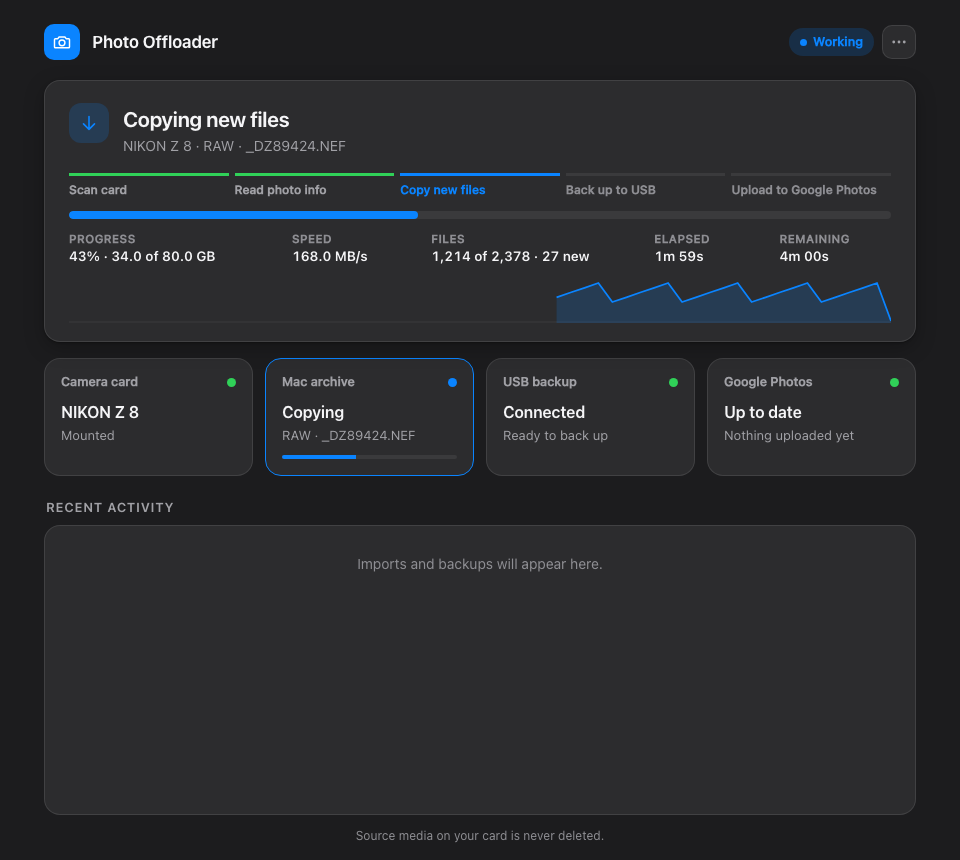
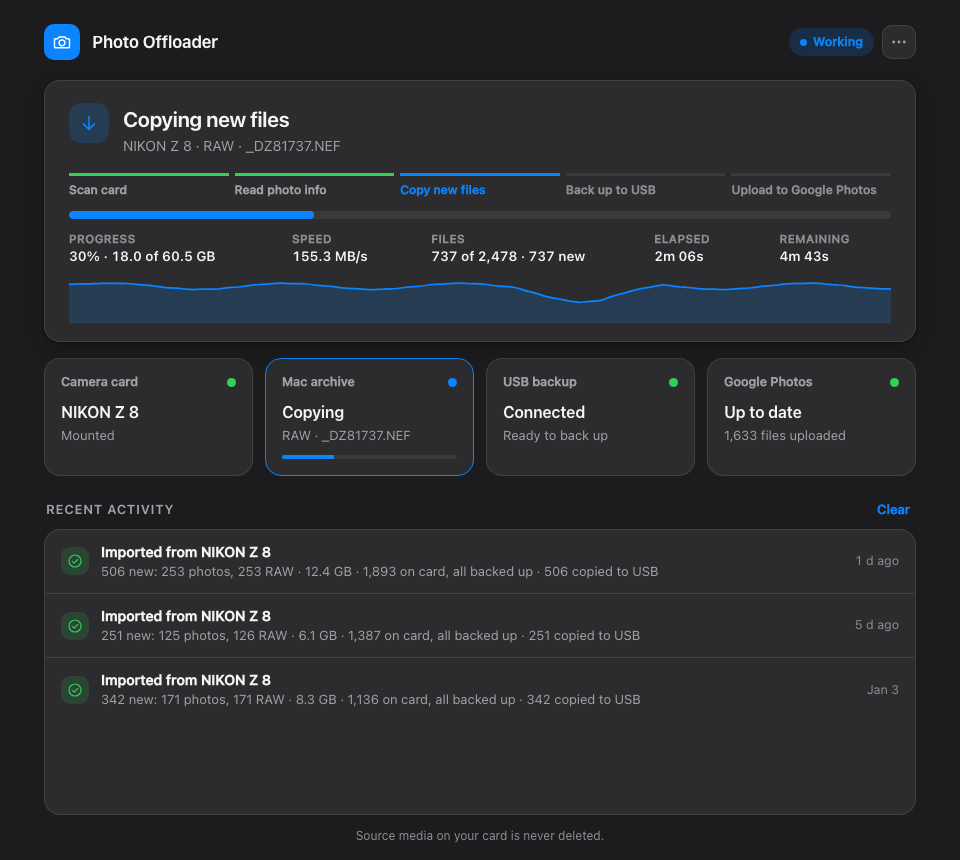
Show a believable import in the README's screenshot
The old picture didn't add up: 34 GB in 1m 59s is about 285 MB/s, but it said
153 MB/s, and it showed 1,214 files done with only 47 new. Its cards also said
"Up to date" beside "Nothing uploaded yet", above an empty activity list.

A new readme_import scenario uses a card sized like a real one (2,478 files,
about 25 MB each) and works out progress, file counts and time remaining from
the same speed samples, with a test that they agree. It also has past imports
and uploads. The picture is still simulated, not a recording of a real import.

diff --git a/tests/browser/harness.py b/tests/browser/harness.py
@@ -149,6 +149,10 @@ class Sandbox:
         self.status(usb_planned=True, **fields)
 
 
+README_CARD_FILES = 2478
+README_MB_PER_FILE = 25
+README_COPY_SECONDS = 120
+
 COPY_PROGRESS = dict(
     bytes_done=34 * GB,
     bytes_total=80 * GB,
@@ -185,6 +189,59 @@ def _copying(s: Sandbox, **fields: Any) -> None:
             }
         )
         s.core.state()
+
+
+def _past_import(s: Sandbox, days_ago: int, seconds: int, new_files: int, card_files: int) -> None:
+    new_bytes = new_files * README_MB_PER_FILE * MB
+    finished = s.now - days_ago * 86400
+    s.record(
+        files=card_files,
+        copied=new_files,
+        skipped=card_files - new_files,
+        bytes=card_files * README_MB_PER_FILE * MB,
+        started_at=finished - seconds,
+        finished_at=finished,
+        details={
+            "new": {"JPG": new_files // 2, "RAW": new_files - new_files // 2},
+            "new_bytes": new_bytes,
+            "usb_copied": new_files,
+        },
+    )
+
+
+def _readme_import(s: Sandbox) -> None:
+    """The README's picture: a fresh card two minutes in, sized like a real one (about 25 MB a
+    file). Every number comes from the speed samples, so the panel's figures agree."""
+    speeds = [_steady_speed_mb(second, 70, 82) * MB for second in range(README_COPY_SECONDS)]
+    moved = sum(speeds)
+    files = moved // (README_MB_PER_FILE * MB)
+    total = README_CARD_FILES * README_MB_PER_FILE * MB
+    _past_import(s, days_ago=12, seconds=58, new_files=342, card_files=1136)
+    _past_import(s, days_ago=5, seconds=41, new_files=251, card_files=1387)
+    _past_import(s, days_ago=1, seconds=83, new_files=506, card_files=1893)
+    with catalog.catalog_db() as db:
+        db.executemany(
+            "INSERT INTO google_photos_uploads (path, size, mtime_ns, inode, uploaded_at, remote,"
+            " album) VALUES (?, 1, 1, 1, ?, 'gphotos', 'Photo Offloader')",
+            [(f"/archive/{number}.jpg", s.now) for number in range(1633)],
+        )
+    s.transfer(
+        state="copying",
+        phase="copy",
+        stage="copy",
+        category="RAW",
+        current_file=f"_DZ8{1000 + files}.NEF",
+        files_done=files,
+        files_total=README_CARD_FILES,
+        new_files=files,
+        bytes_done=moved,
+        bytes_total=total,
+        bytes_transferred=moved,
+        elapsed_seconds=README_COPY_SECONDS + 6,  # the scan came first
+        eta_seconds=(total - moved) / (moved / README_COPY_SECONDS),
+    )
+    s.core.state()  # starts the graph; the clock is frozen, so no poll adds to it afterwards
+    s.core._samples.extend(speeds)
 
 
 def _uploading(s: Sandbox) -> None:
@@ -261,6 +318,7 @@ SCENARIOS: Dict[str, Callable[[Sandbox], None]] = {
         **COPY_PROGRESS,
     ),
     "copying": _copying,
+    "readme_import": _readme_import,
     # The longest values a slot should have to hold: a big card with thousands of new files.
     "copying_big_card": lambda s: _copying(
         s,

diff --git a/tests/browser/test_dashboard_page.py b/tests/browser/test_dashboard_page.py
@@ -7,13 +7,14 @@ PHOTO_OFFLOADER_TEST_SCREENSHOTS to a folder to also save a picture of every sta
 
 from __future__ import annotations
 
+import json
 import os
 import re
 import unittest
 from pathlib import Path
 from typing import Dict, List
 
-from tests.browser.harness import CARD, ONE_RUN, SCENARIOS, Browser, BrowserTestCase
+from tests.browser.harness import CARD, MB, ONE_RUN, SCENARIOS, Browser, BrowserTestCase
 
 try:
     from playwright.sync_api import expect
@@ -497,6 +498,35 @@ class TestCardTextIsNeverMarkup(PageTestCase):
         expect(self.page.locator("#hero p")).to_have_text(HOSTILE)
         expect(self.page.locator("#history .t")).to_contain_text(HOSTILE)
         expect(self.page.locator("#history .s")).to_contain_text(HOSTILE)
+
+
+class TestReadmeScreenshot(PageTestCase):
+    """The README's picture has to read like a real import, so its numbers must agree."""
+
+    def test_the_numbers_on_the_panel_agree_with_each_other(self):
+        self.show("readme_import")
+        status = json.loads(self.sandbox.paths.status_file.read_text())
+        done, total = status["bytes_done"], status["bytes_total"]
+        history = self.sandbox.core.state()["activity"]["speed_history"]
+        self.assertEqual(status["bytes_transferred"], done)
+        self.assertAlmostEqual(
+            sum(history) / done, 1, places=2, msg="the graph adds up to the bytes"
+        )
+        self.assertEqual(
+            status["new_files"], status["files_done"], "a fresh card: every file is new"
+        )
+        self.assertAlmostEqual(done / status["files_done"] / MB, 25, delta=0.5)
+        copy_seconds = len(history)
+        self.assertAlmostEqual(
+            status["eta_seconds"], (total - done) / (done / copy_seconds), delta=1
+        )
+        self.assertGreaterEqual(status["elapsed_seconds"], copy_seconds)
+        self.assertLess(status["elapsed_seconds"], copy_seconds + 15, "plus a short scan")
+
+    def test_it_shows_a_believable_install(self):
+        self.show("readme_import")
+        self.assertGreaterEqual(self.page.locator("#history > *").count(), 3)
+        self.assertNotIn("Nothing uploaded yet", self.page.locator("#pipeline").inner_text())
 
 
 class TestSpeedGraph(PageTestCase):
